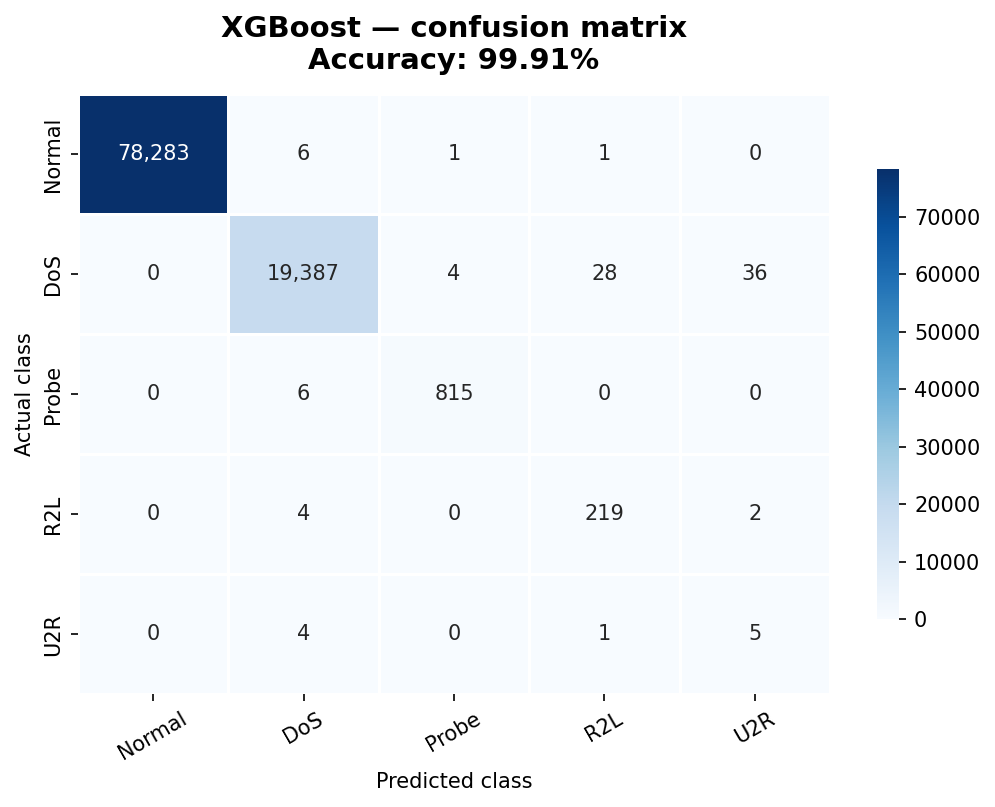
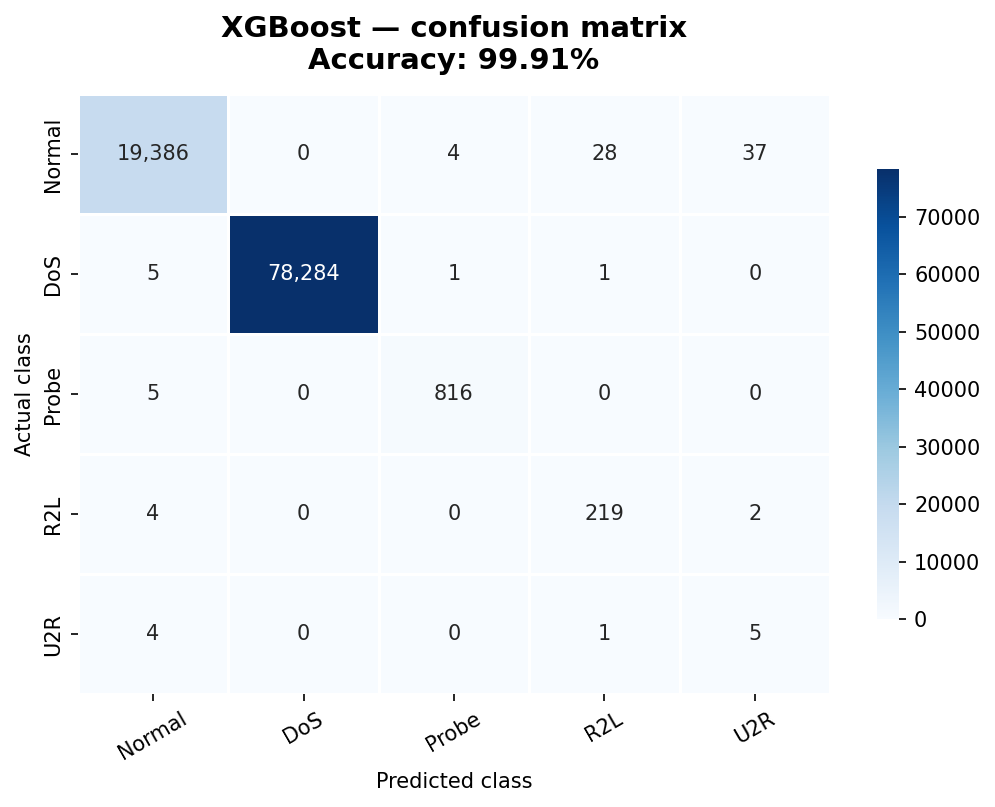
Final submission: update pipeline, README, and generated outputs

diff --git a/python/phase4_xgboost.py b/python/phase4_xgboost.py
@@ -1,16 +1,3 @@
-# =============================================================================
-# KDD Cup 1999 - Network Intrusion Detection
-# Phase 4: Advanced Models — XGBoost + LightGBM + SHAP
-# Secondary language: Python
-# Input : data/train_balanced.csv   (from Phase 2)
-#         data/test.csv             (from Phase 2)
-# Outputs: outputs/p11_xgb_confusion.png
-#          outputs/p12_lgbm_confusion.png
-#          outputs/p13_shap_summary.png
-#          outputs/p14_shap_beeswarm.png
-#          data/phase4_results.json
-# =============================================================================
-
 import json
 import warnings
 warnings.filterwarnings("ignore")
@@ -26,13 +13,11 @@ from sklearn.metrics import (
     classification_report, confusion_matrix,
     f1_score, accuracy_score, roc_auc_score
 )
-from sklearn.preprocessing import LabelEncoder
 
 import xgboost as xgb
 import lightgbm as lgb
 import shap
 
-# ── directories ──────────────────────────────────────────────────────────────
 Path("outputs").mkdir(exist_ok=True)
 Path("data").mkdir(exist_ok=True)
 
@@ -42,7 +27,6 @@ PALETTE   = {
     "Probe":  "#EF9F27", "R2L": "#1D9E75", "U2R": "#7F77DD"
 }
 
-# ── plot style ────────────────────────────────────────────────────────────────
 plt.rcParams.update({
     "font.family":    "sans-serif",
     "axes.spines.top":   False,
@@ -52,47 +36,43 @@ plt.rcParams.update({
     "figure.dpi":        150,
 })
 
-# =============================================================================
-# 1. Load data
-# =============================================================================
 print("Loading data...")
 train = pd.read_csv("data/train_balanced.csv")
 test  = pd.read_csv("data/test.csv")
 
-le = LabelEncoder()
-le.fit(CLASSES)
+class_to_id = {class_name: idx for idx, class_name in enumerate(CLASSES)}
+unknown_labels = (set(train["label"]) | set(test["label"])) - set(CLASSES)
+if unknown_labels:
+    raise ValueError(f"Unknown labels found: {sorted(unknown_labels)}")
 
 X_train = train.drop("label", axis=1)
-y_train = le.transform(train["label"])
+y_train = train["label"].map(class_to_id).astype(int).to_numpy()
 
 X_test  = test.drop("label", axis=1)
-y_test  = le.transform(test["label"])
+y_test  = test["label"].map(class_to_id).astype(int).to_numpy()
 
 print(f"Train : {X_train.shape[0]:,} rows x {X_train.shape[1]} features")
 print(f"Test  : {X_test.shape[0]:,}  rows x {X_test.shape[1]} features")
-print(f"Classes: {le.classes_}")
+print(f"Classes: {CLASSES}")
 
-# =============================================================================
-# 2. Helper functions
-# =============================================================================
 def evaluate(y_true, y_pred, model_name):
     acc      = accuracy_score(y_true, y_pred)
     macro_f1 = f1_score(y_true, y_pred, average="macro", zero_division=0)
     report   = classification_report(
         y_true, y_pred,
-        target_names=CLASSES, output_dict=True, zero_division=0
+        labels=range(len(CLASSES)), target_names=CLASSES,
+        output_dict=True, zero_division=0
     )
     print(f"\n{'='*55}")
     print(f"  {model_name}")
     print(f"{'='*55}")
     print(f"  Accuracy : {acc:.4f}")
     print(f"  Macro F1 : {macro_f1:.4f}")
-    print(f"\n{classification_report(y_true, y_pred, target_names=CLASSES, zero_division=0)}")
+    print(f"\n{classification_report(y_true, y_pred, labels=range(len(CLASSES)), target_names=CLASSES, zero_division=0)}")
     return {"accuracy": acc, "macro_f1": macro_f1, "report": report}
 
-
 def plot_confusion(y_true, y_pred, title, fname):
-    cm = confusion_matrix(y_true, y_pred)
+    cm = confusion_matrix(y_true, y_pred, labels=range(len(CLASSES)))
     acc = accuracy_score(y_true, y_pred)
 
     fig, ax = plt.subplots(figsize=(7, 5.5))
@@ -111,13 +91,8 @@ def plot_confusion(y_true, y_pred, title, fname):
     plt.close()
     print(f"Saved: outputs/{fname}")
 
-
-# =============================================================================
-# 3. XGBoost
-# =============================================================================
 print("\n===== MODEL 3: XGBoost =====")
 
-# Class weights — inverse frequency to handle residual imbalance
 class_counts  = np.bincount(y_train)
 class_weights = len(y_train) / (len(CLASSES) * class_counts)
 sample_weight = np.array([class_weights[y] for y in y_train])
@@ -132,8 +107,8 @@ xgb_model = xgb.XGBClassifier(
     colsample_bytree = 0.8,
     min_child_weight = 5,
     gamma            = 0.1,
-    reg_alpha        = 0.1,   # L1 regularisation
-    reg_lambda       = 1.0,   # L2 regularisation
+    reg_alpha        = 0.1,
+    reg_lambda       = 1.0,
     use_label_encoder= False,
     eval_metric      = "mlogloss",
     random_state     = 42,
@@ -153,12 +128,8 @@ xgb_preds   = xgb_model.predict(X_test)
 xgb_metrics = evaluate(y_test, xgb_preds, "XGBoost")
 plot_confusion(y_test, xgb_preds, "XGBoost — confusion matrix", "p11_xgb_confusion.png")
 
-# =============================================================================
-# 4. LightGBM
-# =============================================================================
 print("\n===== MODEL 4: LightGBM =====")
 
-# Class weights dict for LightGBM
 lgb_class_weight = {i: class_weights[i] for i in range(len(CLASSES))}
 
 lgb_model = lgb.LGBMClassifier(
@@ -176,7 +147,7 @@ lgb_model = lgb.LGBMClassifier(
     class_weight     = lgb_class_weight,
     random_state     = 42,
     n_jobs           = -1,
-    verbosity        = -1    # suppress LightGBM output
+    verbosity        = -1
 )
 
 print("Training LightGBM (400 trees)...")
@@ -190,21 +161,16 @@ lgb_preds   = lgb_model.predict(X_test)
 lgb_metrics = evaluate(y_test, lgb_preds, "LightGBM")
 plot_confusion(y_test, lgb_preds, "LightGBM — confusion matrix", "p12_lgbm_confusion.png")
 
-# =============================================================================
-# 5. SHAP explainability (on XGBoost — best interpretable model)
-# =============================================================================
 print("\n===== SHAP EXPLAINABILITY (XGBoost) =====")
 print("Computing SHAP values on 2,000 test samples...")
 
-# Use a sample for speed — SHAP is O(n * trees)
 shap_sample_idx = np.random.RandomState(42).choice(len(X_test), size=2000, replace=False)
 X_shap = X_test.iloc[shap_sample_idx]
 
 explainer   = shap.TreeExplainer(xgb_model)
-shap_values = explainer.shap_values(X_shap)   # shape: (n_samples, n_features, n_classes)
+shap_values = explainer.shap_values(X_shap)
 
-# ── Plot 1: SHAP summary — mean absolute impact per feature (all classes) ──
-mean_shap = np.abs(shap_values).mean(axis=(0, 2))   # avg over samples and classes
+mean_shap = np.abs(shap_values).mean(axis=(0, 2))
 shap_importance = pd.DataFrame({
     "feature":   X_test.columns,
     "mean_shap": mean_shap
@@ -224,9 +190,8 @@ plt.savefig("outputs/p13_shap_summary.png", dpi=150, bbox_inches="tight")
 plt.close()
 print("Saved: outputs/p13_shap_summary.png")
 
-# ── Plot 2: SHAP beeswarm for DoS class (class index 1) ──────────────────────
 print("Generating SHAP beeswarm plot for DoS class...")
-shap_dos = shap_values[:, :, 1]   # DoS is index 1
+shap_dos = shap_values[:, :, 1]
 
 fig, ax = plt.subplots(figsize=(9, 7))
 shap.summary_plot(
@@ -244,15 +209,18 @@ plt.savefig("outputs/p14_shap_beeswarm.png", dpi=150, bbox_inches="tight")
 plt.close()
 print("Saved: outputs/p14_shap_beeswarm.png")
 
-# =============================================================================
-# 6. Final comparison — all 4 models
-# =============================================================================
 print("\n===== FINAL MODEL COMPARISON =====")
 
-# Load Phase 3 baseline metrics (hardcoded from R output)
+baseline_df = pd.read_csv("data/baseline_results.csv")
+
+# CSV keeps Phase 3 metrics compatible between R and Python.
 baseline = {
-    "Decision Tree": {"accuracy": 0.9988, "macro_f1": 0.8210},
-    "Random Forest": {"accuracy": 0.9994, "macro_f1": 0.8310},
+    row["Model"]: {
+        "accuracy": float(row["Accuracy"]),
+        "macro_f1": float(row["Macro F1"]),
+    }
+    for _, row in baseline_df.iterrows()
+    if row["Model"] in {"Decision Tree", "Random Forest"}
 }
 
 results = {
@@ -267,7 +235,6 @@ print("-" * 42)
 for name, m in results.items():
     print(f"{name:<20} {m['accuracy']:>10.4f} {m['macro_f1']:>10.4f}")
 
-# ── Comparison bar chart ──────────────────────────────────────────────────────
 model_names = list(results.keys())
 accuracies  = [results[m]["accuracy"]  for m in model_names]
 macro_f1s   = [results[m]["macro_f1"]  for m in model_names]
@@ -293,7 +260,7 @@ ax.set_xticklabels(model_names, fontsize=11)
 ax.set_ylim(0.75, 1.02)
 ax.yaxis.set_major_formatter(mticker.FormatStrFormatter("%.2f"))
 ax.set_ylabel("Score")
-ax.set_title("All models — Accuracy vs Macro F1\nEvaluated on held-out test set (98,802 rows)",
+ax.set_title(f"All models — Accuracy vs Macro F1\nEvaluated on held-out test set ({len(X_test):,} rows)",
              pad=12)
 ax.legend(loc="lower right")
 plt.tight_layout()
@@ -301,17 +268,13 @@ plt.savefig("outputs/p15_all_models_comparison.png", dpi=150, bbox_inches="tight
 plt.close()
 print("Saved: outputs/p15_all_models_comparison.png")
 
-# =============================================================================
-# 7. Save results to JSON for README
-# =============================================================================
-# Per-class F1 for XGBoost and LightGBM
 xgb_report = xgb_metrics["report"]
 lgb_report = lgb_metrics["report"]
 
 output = {
     "models": {
-        "Decision Tree": {"accuracy": 0.9988, "macro_f1": 0.8210},
-        "Random Forest": {"accuracy": 0.9994, "macro_f1": 0.8310},
+        "Decision Tree": baseline["Decision Tree"],
+        "Random Forest": baseline["Random Forest"],
         "XGBoost":  {
             "accuracy":  round(xgb_metrics["accuracy"],  4),
             "macro_f1":  round(xgb_metrics["macro_f1"],  4),

diff --git a/README.md b/README.md
@@ -9,9 +9,9 @@ A full end-to-end machine learning pipeline for multi-class network intrusion de
 | Model | Accuracy | Macro F1 | Notes |
 |---|---|---|---|
 | Decision Tree | 99.88% | 0.821 | Interpretable baseline |
-| **Random Forest** | **99.94%** | **0.831** | **Best overall** |
-| XGBoost | 99.91% | 0.821 | + SHAP explainability |
-| LightGBM | 99.92% | 0.828 | Fastest training |
+| **Random Forest** | **99.94%** | **0.832** | **Best overall** |
+| XGBoost | 99.91% | 0.820 | + SHAP explainability |
+| LightGBM | 99.92% | 0.827 | Fastest training |
 
 > U2R class (privilege escalation attacks) is hardest across all models — only 10 test samples, reflecting extreme real-world rarity. All models achieve near-perfect detection on DoS, Normal, and Probe classes.
 
@@ -55,12 +55,13 @@ Phase 1 (R)  →  Phase 2 (R)  →  Phase 3 (R)  →  Phase 4 (Python)
 - **Decision Tree** (rpart): pruned via cross-validation, 105 leaves
 - **Random Forest**: 300 trees, mtry = √20 ≈ 4, trained on stratified 50% sample
 - Evaluation: per-class precision/recall/F1, confusion matrix heatmaps, macro F1
-- Exports `data/baseline_results.rds` for Phase 5 comparison
+- Exports `data/baseline_results.csv` for Python compatibility and `data/baseline_results.rds` for R reuse
 
 ### Phase 4 — Advanced Models (`python/phase4_xgboost.py`)
 - **XGBoost**: 400 trees, depth 6, L1+L2 regularisation, inverse-frequency class weights
 - **LightGBM**: 400 trees, leaf-wise growth, 63 leaves
 - **SHAP explainability**: TreeExplainer on 2,000 test samples — feature importance bar chart + DoS beeswarm plot
+- Loads Phase 3 baseline metrics from `data/baseline_results.csv`
 - Exports all metrics to `data/phase4_results.json`
 
 ---
@@ -69,8 +70,8 @@ Phase 1 (R)  →  Phase 2 (R)  →  Phase 3 (R)  →  Phase 4 (Python)
 
 - **`src_bytes`** is the single most predictive feature across all models (RF importance + SHAP)
 - **DoS attacks** are trivially separable — near-100% F1 across all classifiers
-- **U2R** (user-to-root privilege escalation) is the hardest class — embedded in packet data rather than connection patterns, only 52 training samples even after SMOTE
-- **SMOTE** on R2L improved F1 from 0.86 (DT) to 0.95 (LightGBM) — concrete evidence of its value
+- **U2R** (user-to-root privilege escalation) is the hardest class — only 52 raw records and 10 held-out test samples, so evaluation remains high-variance even after SMOTE-balanced training
+- **R2L** benefits most from minority-class handling, reaching about 0.94 F1 with LightGBM on the held-out test set
 - Random Forest outperforms gradient boosting here, suggesting the feature space is well-suited to bagging after careful feature selection
 
 ---
